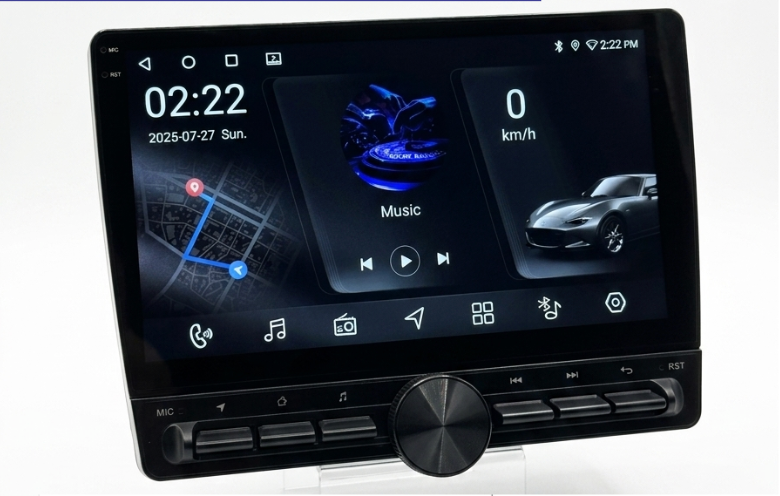
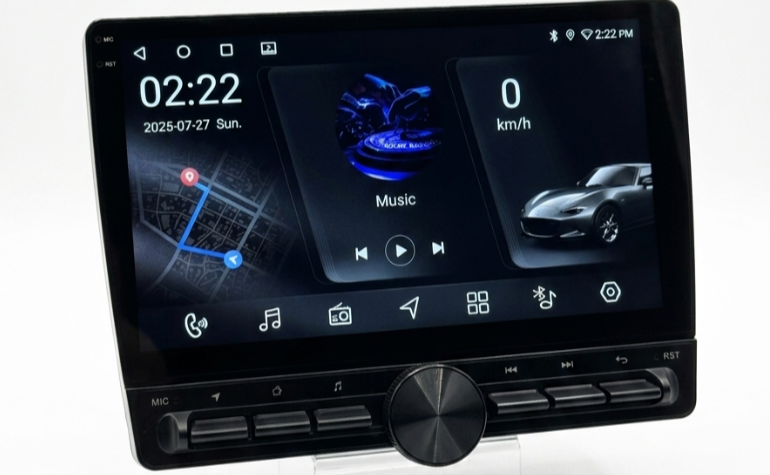
Fix hero slide image scaling & crop padding for single knob piano stereo

diff --git a/src/components/Hero.jsx b/src/components/Hero.jsx
@@ -78,7 +78,7 @@ export const Hero = () => {
           <img
             src={slide.image}
             alt={slide.title}
-            className="w-full h-full object-cover object-center transition-all duration-700"
+            className="w-full h-full object-contain p-3 object-center transition-all duration-700"
           />
 
           {/* Bottom gradient fade */}
